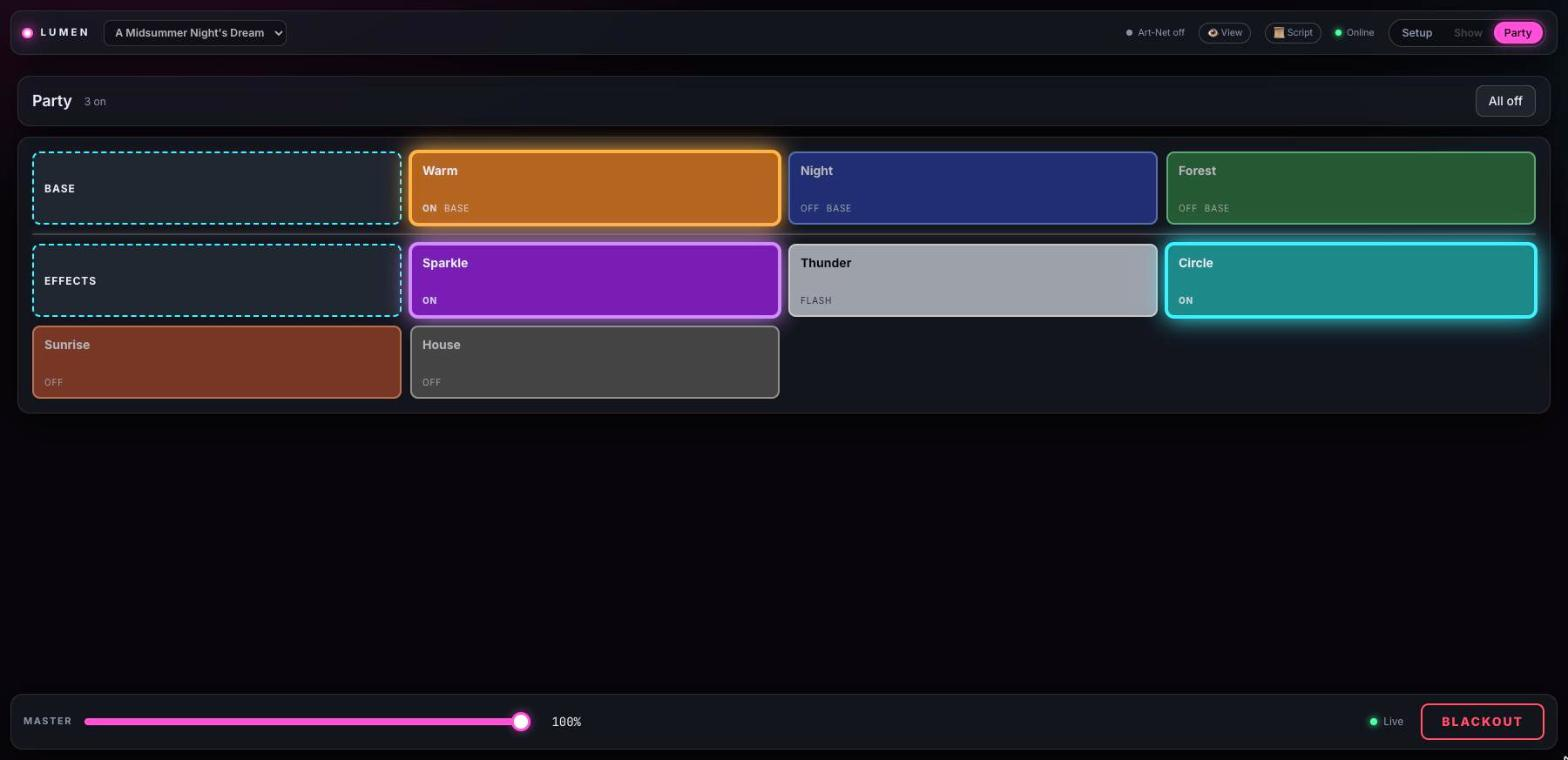
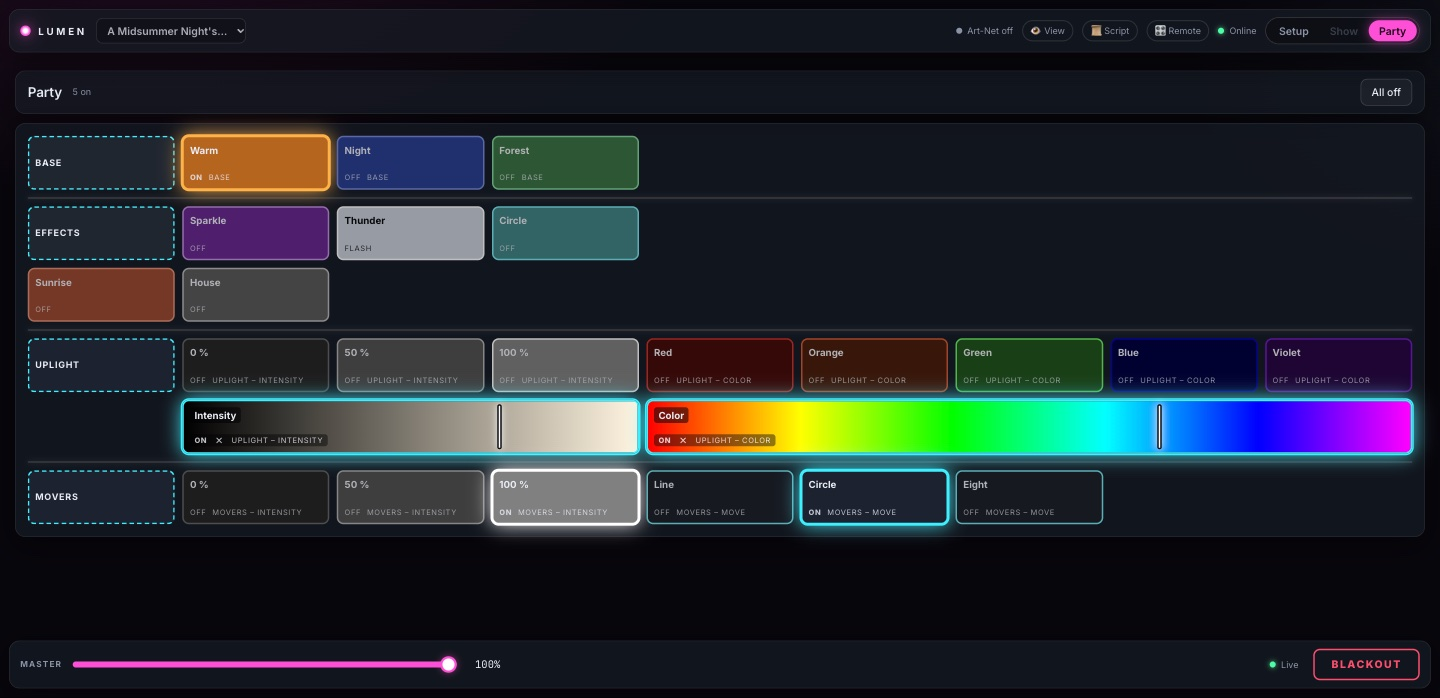
Guide: quick setup, selecting several fixtures, party gradients

diff --git a/index.html b/index.html
@@ -274,7 +274,7 @@
     background: var(--warning-soft);
   }
 
-  .callout strong:first-child { display: block; margin-bottom: 2px; }
+  .callout > strong:first-child { display: block; margin-bottom: 2px; }
 
   .callout p { margin: 4px 0; }
 
@@ -626,6 +626,7 @@ cd lumen-ArtNet
     <p>Every fixture card has a <strong>Locate</strong> button that makes it light up brightly so you can find it on
       stage. Moving heads can get <strong>pan/tilt limits</strong> here so the show never points them into the
       audience.</p>
+
     <div class="callout">
       <strong>Your fixture is not in the library?</strong>
       <p>Use <strong>⇣ Import from Open Fixture Library</strong> below the library: download the fixture from
@@ -634,6 +635,42 @@ cd lumen-ArtNet
         <a href="https://github.com/vinzens81/lumen-ArtNet/blob/main/docs/FIXTURE-LIBRARY.md">the profile format</a>.
         Profiles are picked up while Lumen is running.</p>
     </div>
+
+    <h3 id="quick-setup">Quick setup</h3>
+    <div class="pair">
+      <figure>
+        <img src="images/patch-quick-setup.jpg" width="1440" height="698" alt="Add fixture form for four uplights with the Quick setup box ticked: intensity looks, color looks, party row and party gradients" loading="lazy">
+        <figcaption>Tick <strong>Quick setup</strong> while patching …</figcaption>
+      </figure>
+      <figure>
+        <img src="images/quick-setup-dialog.jpg" width="1440" height="698" alt="Quick setup dialog with both movers chosen, named Movers, with intensity looks, moves and a party row" loading="lazy">
+        <figcaption>… or use <strong>Quick setup…</strong> for fixtures that are already patched.</figcaption>
+      </figure>
+    </div>
+    <p>Optional help so new fixtures can be played right away. For the chosen fixtures <em>together</em> Lumen makes:</p>
+    <ul>
+      <li><strong>Intensity looks</strong> 0 / 50 / 100 % and <strong>color looks</strong> red, orange, green, blue,
+        violet, each with a composition of its own. LED fixtures mix the color; moving heads with
+        <strong>CMY</strong> subtract it; a <strong>color wheel</strong> takes the slot closest to it – a color the
+        wheel has nothing close to is left out for that fixture.</li>
+      <li>A <strong>color palette</strong>: the colors become presets, and the looks refer to them. Pick another wheel
+        slot for "Red" in the programmer, update the preset, and every look follows. The other slots of a wheel
+        (e.g. yellow, white) are added to the palette too.</li>
+      <li><strong>Moves</strong> line, circle and eight for fixtures with pan and tilt. They start around the middle –
+        adjust size and position in the <a href="#moves">Moves</a> tab for your stage.</li>
+      <li>A <strong>party row</strong> with a button for each look and move, and a row of <strong>gradients</strong> to
+        pick intensity and color by touch – see <a href="#party">party mode</a>. One button switches all the fixtures,
+        e.g. all four uplights.</li>
+    </ul>
+    <figure>
+      <img src="images/patch-several.jpg" width="1440" height="698" alt="Patch in the list view with Front 1 to 4 ticked; the side panel shows the four fixtures, their type and the quick setup for all of them, named Front" loading="lazy">
+      <figcaption>Several fixtures of one type ticked in the list: one quick setup for all of them.</figcaption>
+    </figure>
+    <p><strong>Several fixtures at once:</strong> shift-click fixtures in the channel grid, or switch the patch to
+      <strong>List</strong> and tick them (shift-click ticks a whole range). If they are all of one type, the side panel
+      offers quick setup for all of them together – handy for fixtures patched one by one.</p>
+    <p>Lumen remembers on each computer whether the box was ticked. Everything it makes is ordinary – rename, change or
+      delete it like anything you built yourself. If the party matrix is full, nothing is made and Lumen says so.</p>
 
     <!-- ───────────────────────────────────────────── -->
     <h2 id="stage"><span class="num">07</span>Stage</h2>
@@ -905,18 +942,24 @@ cd lumen-ArtNet
     <p>For the party after the premiere: no cue list, just a matrix of buttons that switch light on and off.</p>
     <div class="pair">
       <figure>
-        <img src="images/party-setup.jpg" width="1568" height="760" alt="Party tab in setup mode with a matrix of colored fields" loading="lazy">
+        <img src="images/party-setup.jpg" width="1440" height="698" alt="Party tab in setup mode: the matrix with rows for the uplights and movers made by quick setup, the color gradient selected and its settings on the right" loading="lazy">
         <figcaption>Set up the matrix in the <strong>Party</strong> tab.</figcaption>
       </figure>
       <figure>
-        <img src="images/party.jpg" width="1568" height="760" alt="Party mode with Warm, Sparkle and Circle switched on" loading="lazy">
-        <figcaption>In party mode tap fields to switch them.</figcaption>
+        <img src="images/party.jpg" width="1440" height="698" alt="Party mode with Warm, the uplight intensity and color gradients, Movers 100 % and Circle switched on" loading="lazy">
+        <figcaption>In party mode tap fields to switch them, touch or drag along a gradient.</figcaption>
       </figure>
     </div>
     <ul>
       <li>A field plays a <strong>scene</strong>, a <strong>composition</strong> or a <strong>move</strong>, or is just
-        a text label. Each has a label, fill and border color and is <strong>toggle</strong> or <strong>flash</strong>.</li>
-      <li>Fields in the same <strong>group</strong> exclude each other – switch on "Night" and "Warm" goes off.</li>
+        a text label. Each has a label, fill and border color and is <strong>toggle</strong> or <strong>flash</strong>.
+        A field can be several columns wide.</li>
+      <li>A <strong>gradient</strong> field sets the intensity (dark to full) or the color (red over orange, yellow,
+        green, cyan and blue to violet) of its fixtures: touch a point or drag along it, the marker shows where it is.
+        <strong>✕</strong> switches it off; it remembers the point.</li>
+      <li>Fields in the same <strong>group</strong> exclude each other – switch on "Night" and "Warm" goes off. Quick
+        setup puts the buttons and the gradient of the same kind into one group, so the color gradient replaces the
+        color button that was on.</li>
       <li>Where fields collide, the higher value wins. <strong>All off</strong> switches everything off.</li>
       <li>Switch to <strong class="mode-party">Party</strong> from setup mode (not directly from show mode).</li>
     </ul>
